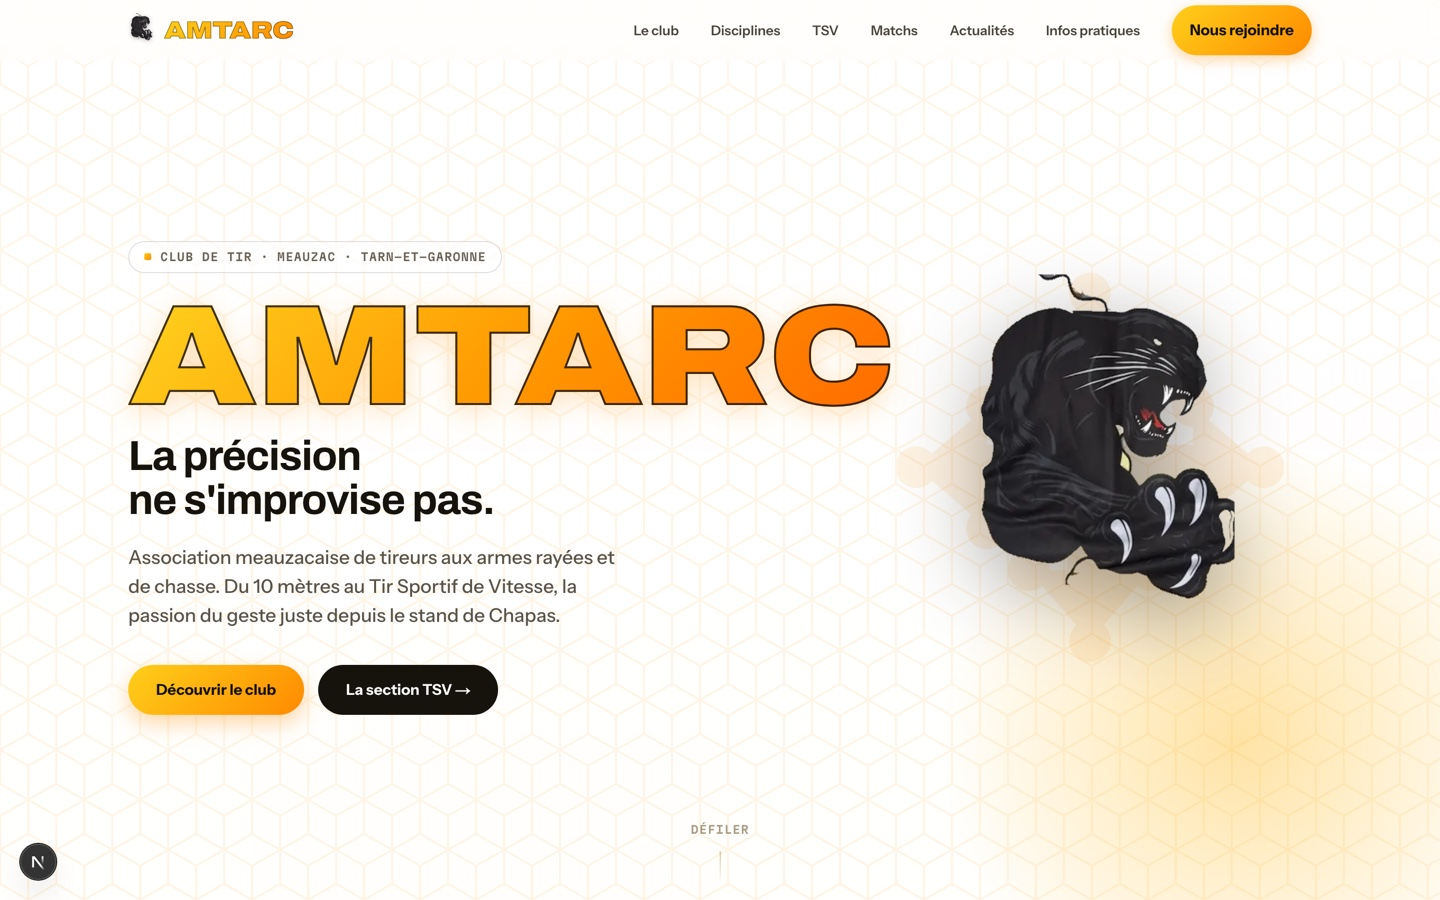
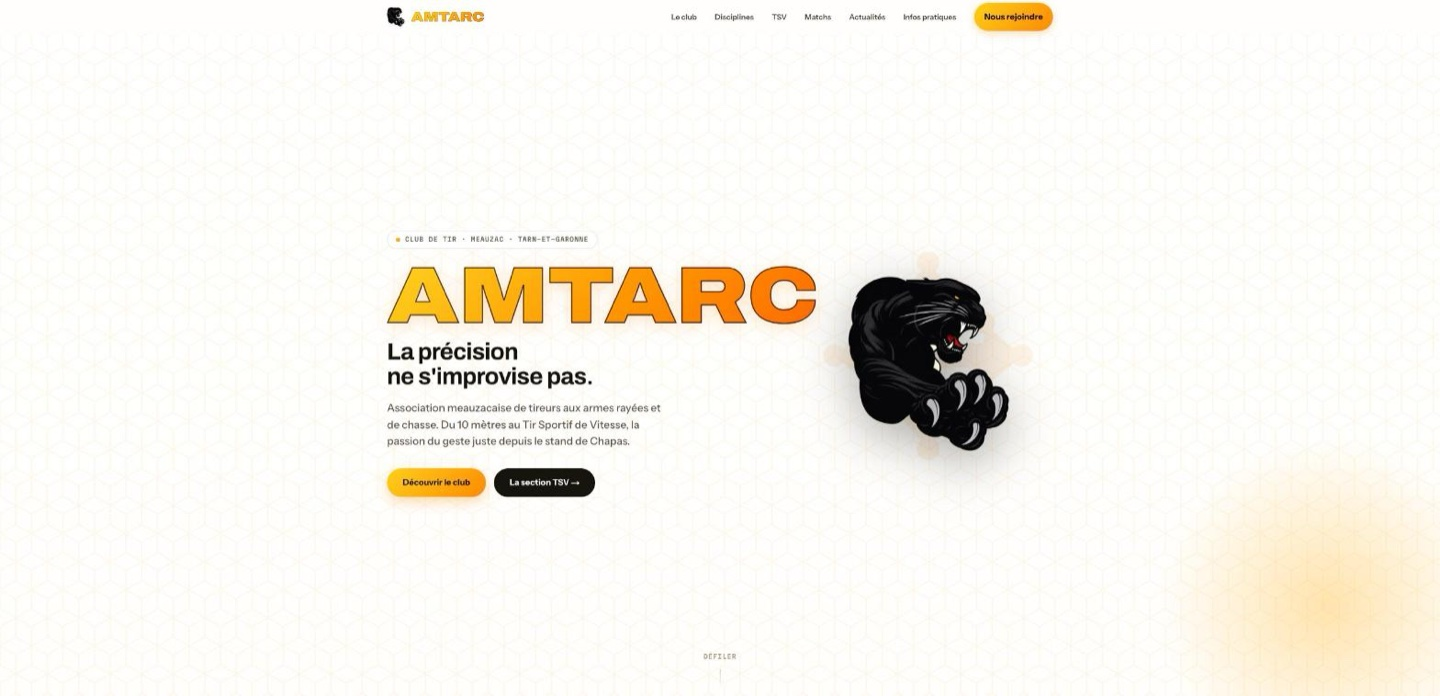
docs: bring the README and booking plan up to date after the VPS deploy
- Roadmap: check off "First deploy to the VPS" (live at
  amtarc.supremjerem.com over HTTPS) and move the already-checked GHCR
  image line out of "Planned" into "Done" where it belongs; add the
  first-deploy fixes (Traefik network label, seed-in-container) and the
  new logo artwork as their own Done entries.
- Deployment section: drop the reference to CLAUDE-context-amtarc.md
  (a local, untracked file — dangling link for anyone reading the repo)
  in favour of pointing at docker-compose.prod.yml's own comments and
  .env.prod.example, and note the site is live.
- docs/match-booking-plan.md: status line said "planned" even though
  the doc's own rollout section marks all four phases shipped.
- docs/screenshot.jpg: refreshed against the current homepage (new
  panther artwork); was five weeks stale.

Claude-Session: https://claude.ai/code/session_01AHnkfQ1dyqyqDYnQgSboud

diff --git a/README.md b/README.md
@@ -98,7 +98,7 @@ apps/
   api/    NestJS API (news, site content, uploads, matches, registrations, JWT auth)
 docs/
   adr/    architecture decision records
-.github/  CI (lint, tests, build), CodeQL, Dependabot
+.github/  CI (lint, tests, build), CodeQL, Dependabot, GHCR image publish
 docker-compose.yml        local Postgres for development
 docker-compose.prod.yml   production stack (deployed to the VPS, not used locally)
 ```
@@ -124,10 +124,12 @@ docker compose -f docker-compose.prod.yml pull
 docker compose -f docker-compose.prod.yml up -d
 ```
 
-`.env.prod.example` documents the variables the production compose file expects (copy it to `.env`
-on the server and fill in real secrets — never commit the filled-in version). See
-`CLAUDE-context-amtarc.md` for the server's existing Traefik/network setup that the compose file is
-built against.
+The site is live at **https://amtarc.supremjerem.com**, served over HTTPS by the VPS's existing
+Traefik (Let's Encrypt). `docker-compose.prod.yml` is heavily commented with the network layout it
+expects (a project-private bridge network for app↔DB, only the web container joined to Traefik's
+shared `web` network); `.env.prod.example` lists every variable it reads — copy it to `.env` on the
+server (that exact name, so `docker compose` picks it up) and fill in real secrets, never committing
+the filled-in version.
 
 ## Roadmap
 
@@ -146,13 +148,21 @@ Done:
 - [x] Deployment safety rails: the API refuses to boot on placeholder or short secrets, the seed
       rotates the admin password hash instead of only creating it, and the demo match stays out of
       production
+- [x] Docker images for `web`/`api` published to GHCR on every merge to `main`
+      ([workflow](.github/workflows/docker-publish.yml)); pulling and restarting on the VPS is a
+      deliberate manual step
+- [x] First deploy to the VPS: live at **https://amtarc.supremjerem.com** over HTTPS (Let's Encrypt
+      via the existing Traefik), the API/DB on a project-private Docker network, images pulled from
+      GHCR. Fixes found on the way: pin the Traefik router to the `web` network, and ship `tsx` +
+      the generated Prisma client in the API image so `prisma db seed` runs in-container
+- [x] Club logo artwork refreshed: a proper vector-style panther across the site, and the full
+      AMTARC lockup (panther + wordmark + pistol / occitan cross / IPSC shield) in the TSV section
 
 Planned:
 
-- [ ] Switch transactional email to a real provider in production (`MAIL_DRIVER=resend` + API key;
-      the log driver covers development)
-- [x] Docker images for `web`/`api` published to GHCR on every merge to `main` ([workflow](.github/workflows/docker-publish.yml)); pulling and restarting on the VPS is still a manual step by design
-- [ ] First deploy to the VPS (`amtarc.supremjerem.com`, DNS not pointed yet)
+- [ ] Switch transactional email to a real provider in production — Resend is wired up
+      (`MAIL_DRIVER=resend` + API key); needs the account and a verified sending domain. The log
+      driver covers development
 - [ ] Shared `packages/` workspace for API/web DTO types
 - [ ] Raise the API coverage threshold as controller/guard tests land
 - [ ] ESLint 10 — blocked upstream: `eslint-plugin-react` (pulled in by `eslint-config-next`) still

diff --git a/docs/match-booking-plan.md b/docs/match-booking-plan.md
@@ -1,8 +1,9 @@
 # Match booking system — design plan
 
-Status: planned (roadmap item). Drafted 2026-08-03 from an analysis of the current
-federation flow at ipsc.fftir.org (Challenge Montagne Noire 2026 used as reference),
-revised the same day after review with the club.
+Status: shipped — all four rollout phases are live (see "Rollout phases" at the end).
+Drafted 2026-08-03 from an analysis of the current federation flow at ipsc.fftir.org
+(Challenge Montagne Noire 2026 used as reference), revised the same day after review
+with the club. Kept as the design record.
 
 ## Problem
 
